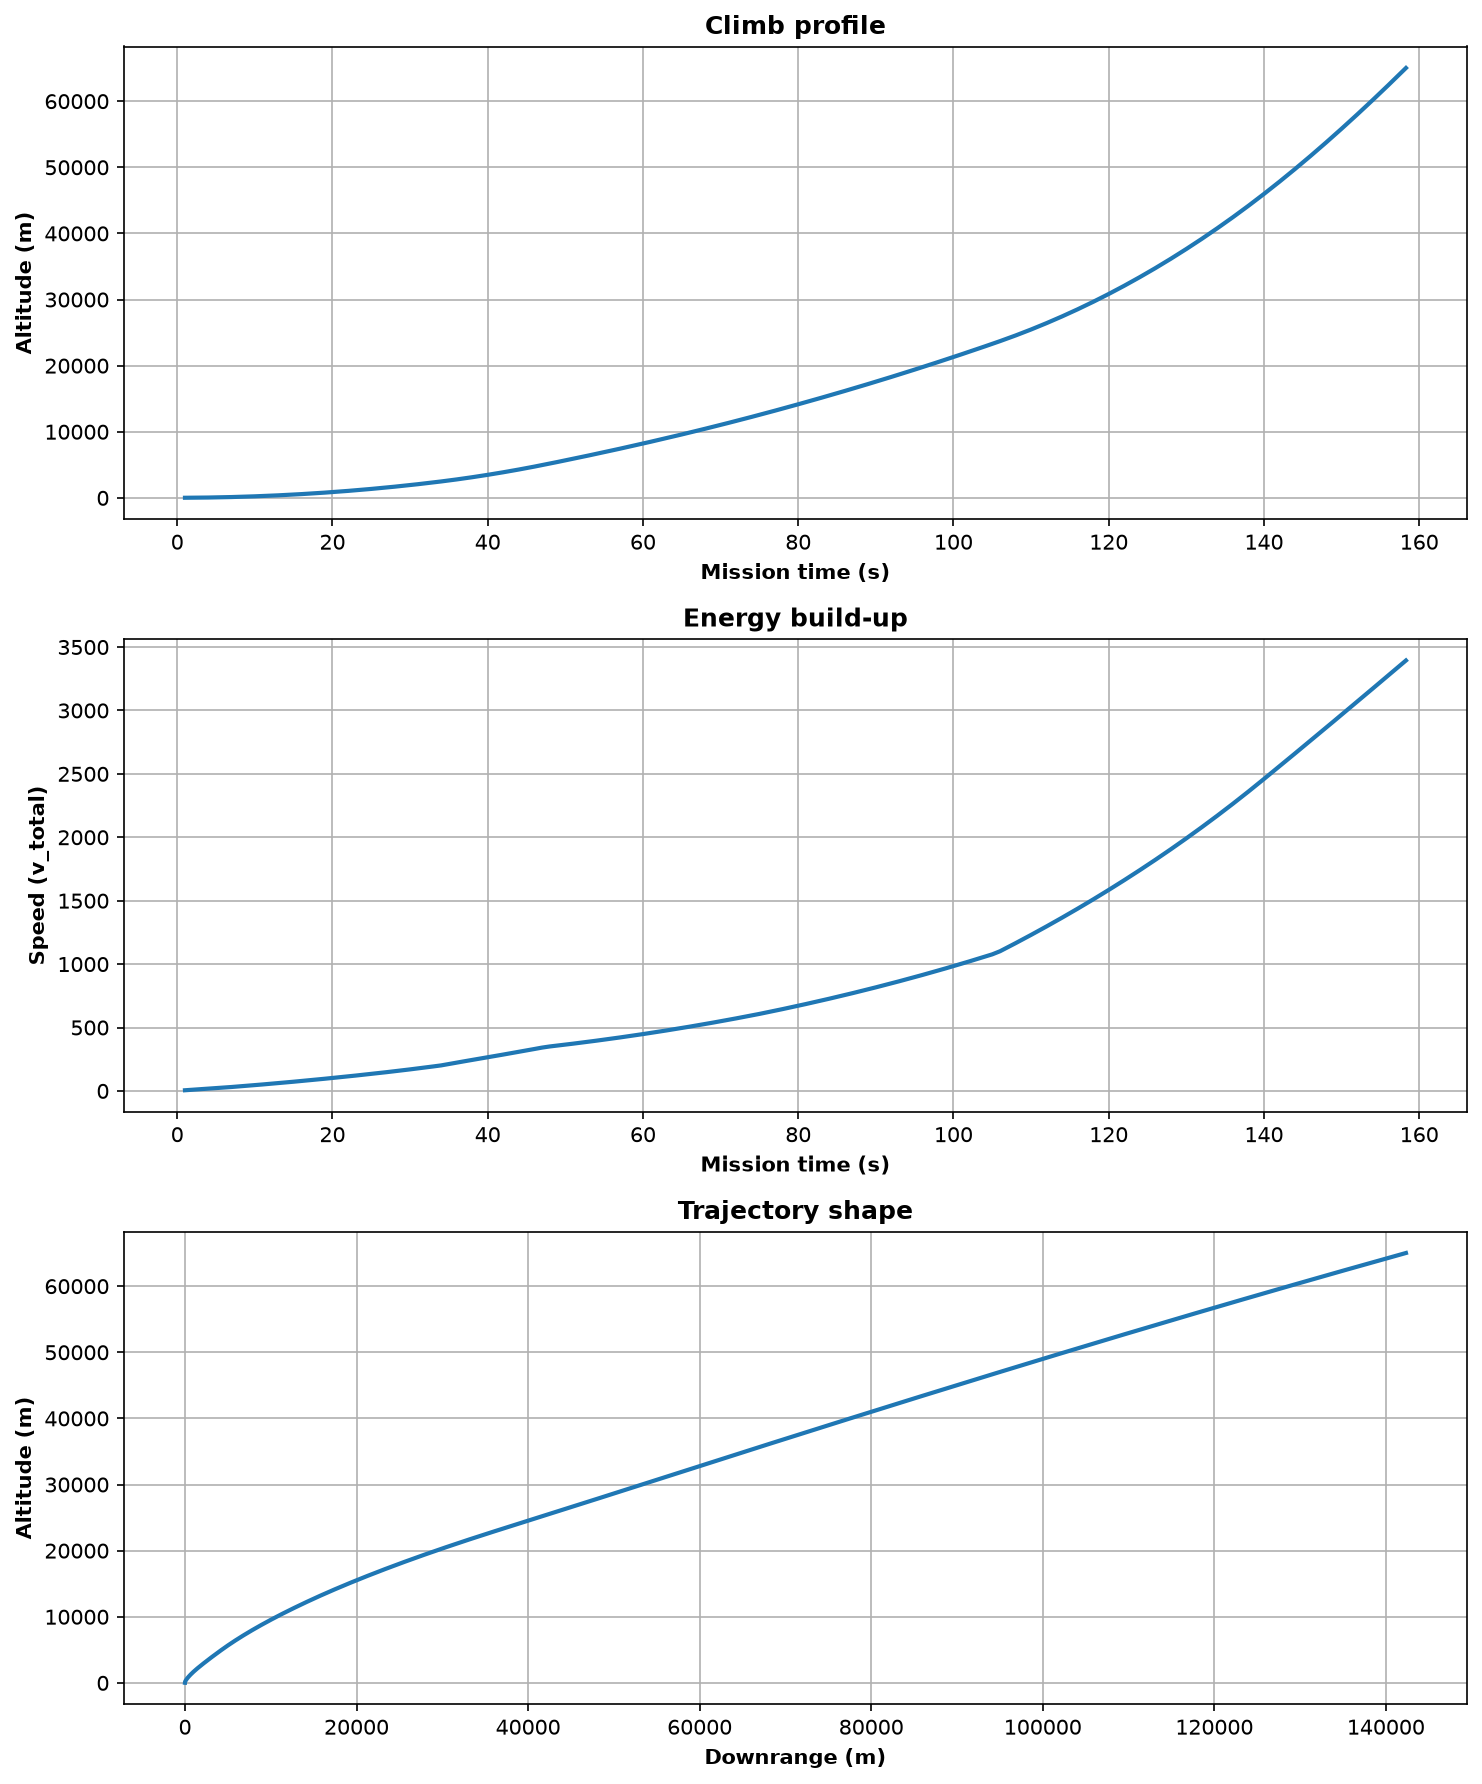
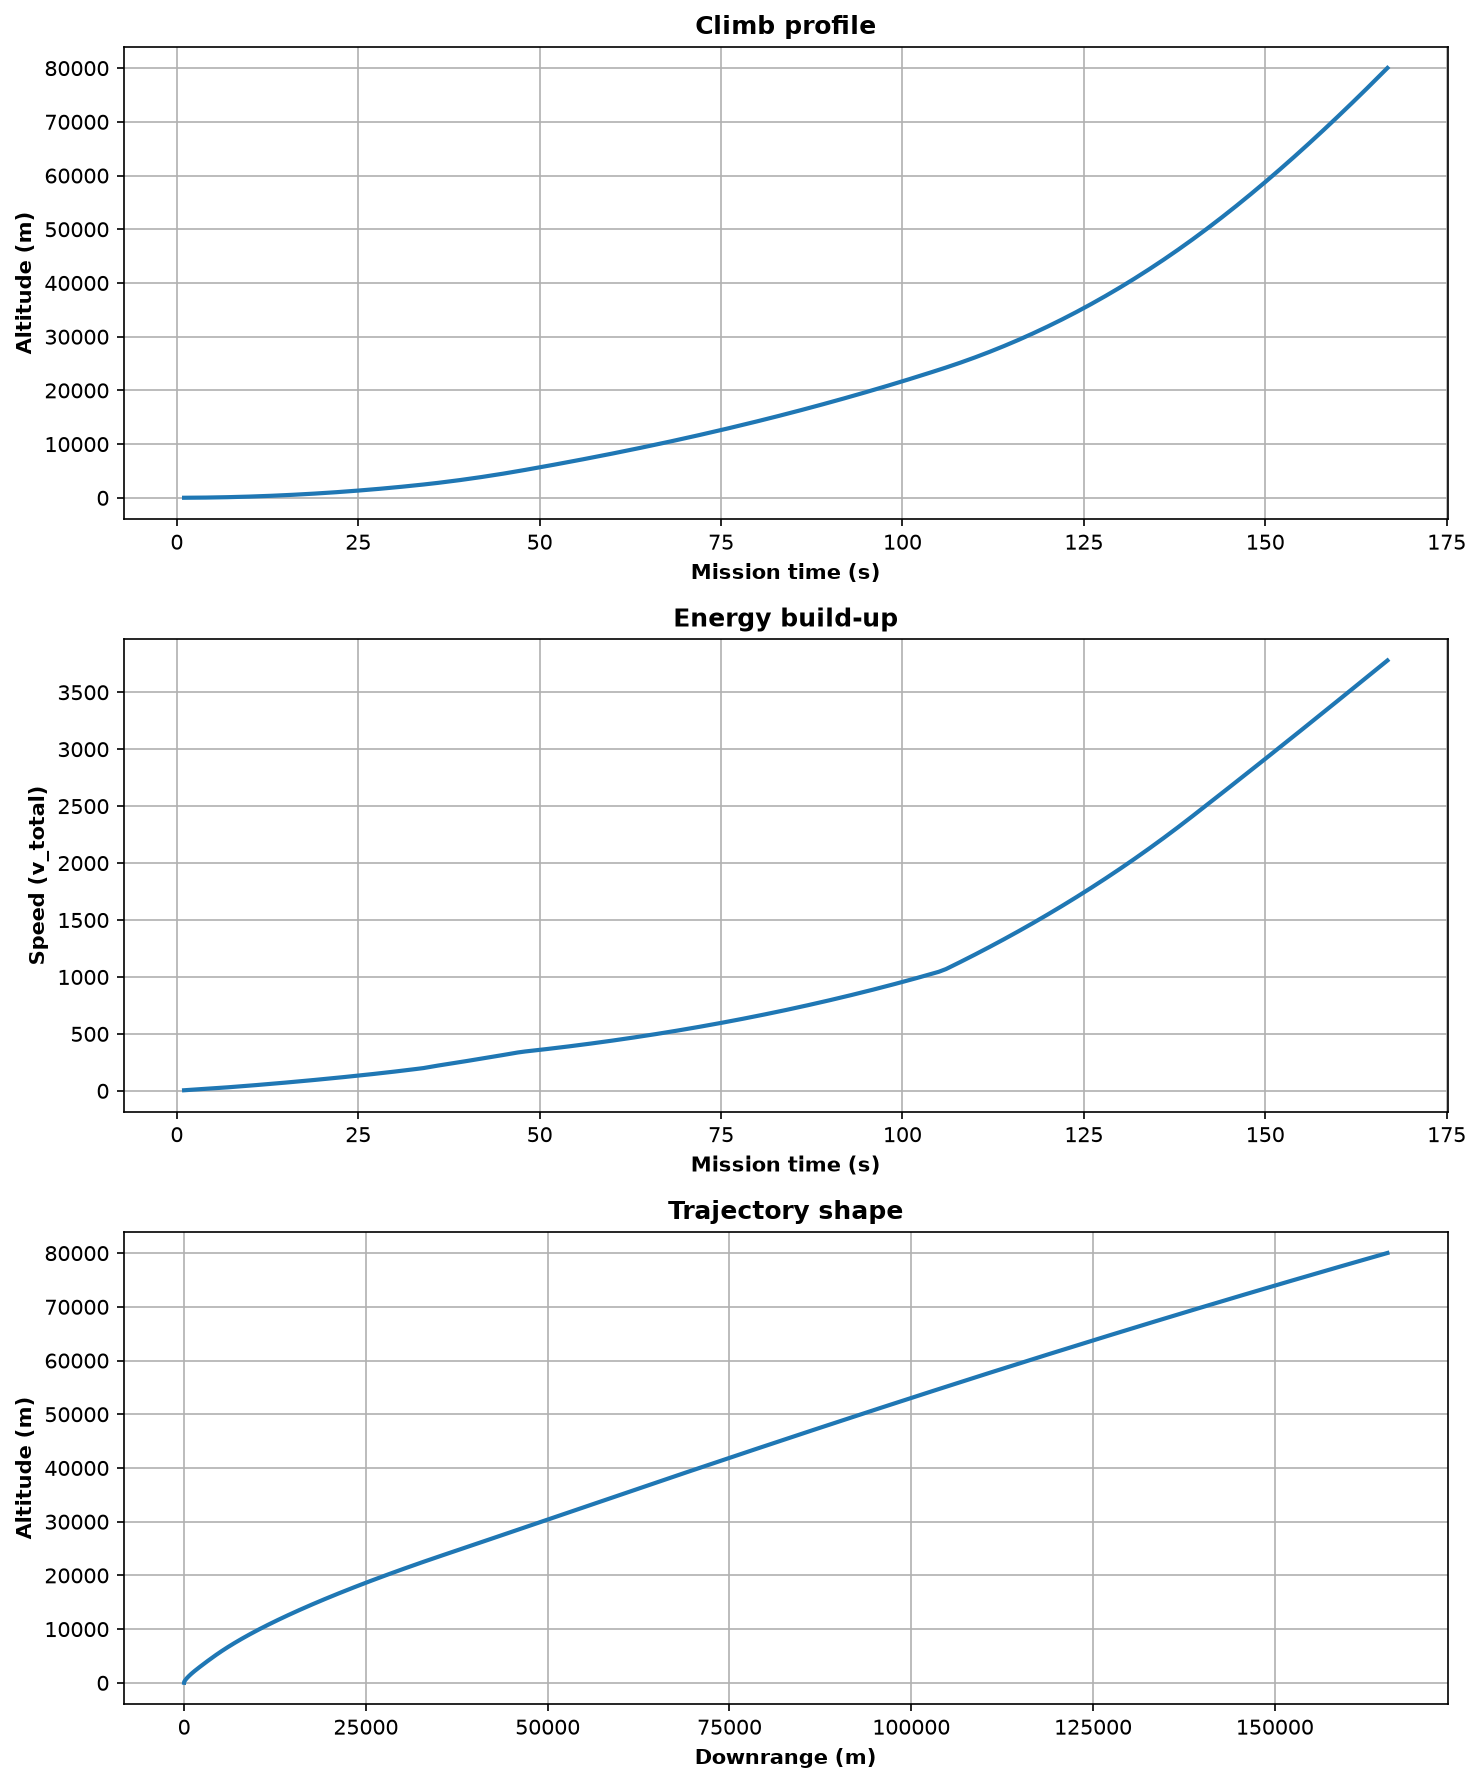
Chore/tuning: cleaned upped doubled variables and tuned guidance to plausible pass off of stage one to stage two

diff --git a/src/rocket_sim/config/falcon9_config.py b/src/rocket_sim/config/falcon9_config.py
@@ -30,16 +30,14 @@ s1_guidance = StageOneGuidance(s1_throttle_rate_limit  = 0.25,
                                s1_pitch_adjust_limit   = 0.5,    # degree fraction per second
                                s1_max_q_throttle       = 0.70,
 
-                               s1_ramp_dur           = 165,      # s
+                               s1_ramp_dur           = 155,      # s
                                s1_ramp_delay         = 10,       # s
-                               s1_min_vel            = 2350,     # m/s
-                               s1_sep_min_alt        = 65_000,   # m
-                               s1_nominal_burn_time  = 160,      # s
+                               s1_min_vel            = 2550,     # m/s
+                               s1_sep_min_alt        = 80_000,   # m
+                               s1_nominal_burn_time  = 170,      # s
                                s1_start_pitch        = 8.0,      # degree
-                               s1_end_pitch          = 66.0,     # degree
+                               s1_end_pitch          = 60.0,     # degree
                                s1_max_pitch_bias_deg = 5.0,      # degree
-                               s1_throttle_dwn_time  = 40,       # s
-                               s1_throttle_up_time   = 75,       # s
                                s1_MECO_delay         = 3.0       # s       
                               )
 

diff --git a/src/rocket_sim/models/rocket.py b/src/rocket_sim/models/rocket.py
@@ -210,10 +210,10 @@ class Rocket:
 
             case rocket_state.ASCENT_BURN:
                 
-                if self.t > self.s1_guidance.s1_throttle_dwn_time:
+                if self.t > self.s1_fp.max_q_start_time:
                     self.current_stage.state = stage_state.THROTTLE_DOWN
 
-                if self.t > self.s1_guidance.s1_throttle_up_time:
+                if self.t > self.s1_fp.max_q_end_time:
                     self.current_stage.state = stage_state.IGNITED
 
                 # Stage 1 guidance

diff --git a/tests/unit/test_s1_guidance.py b/tests/unit/test_s1_guidance.py
@@ -19,8 +19,6 @@ def config():
                             s1_start_pitch        = 8.0,      # degree
                             s1_end_pitch          = 80.0,     # degree
                             s1_max_pitch_bias_deg = 5.0,      # degree
-                            s1_throttle_dwn_time  = 50,       # s
-                            s1_throttle_up_time   = 85,       # s
                             s1_MECO_delay         = 3.0       # s       
                             )
 

diff --git a/src/rocket_sim/config/guidance_config.py b/src/rocket_sim/config/guidance_config.py
@@ -24,9 +24,7 @@ class StageOneGuidance:
     s1_nominal_burn_time: float 
     s1_start_pitch: float       
     s1_end_pitch: float
-    s1_max_pitch_bias_deg: float         
-    s1_throttle_dwn_time: float 
-    s1_throttle_up_time: float
+    s1_max_pitch_bias_deg: float
     s1_MECO_delay: float
 
 @dataclass
